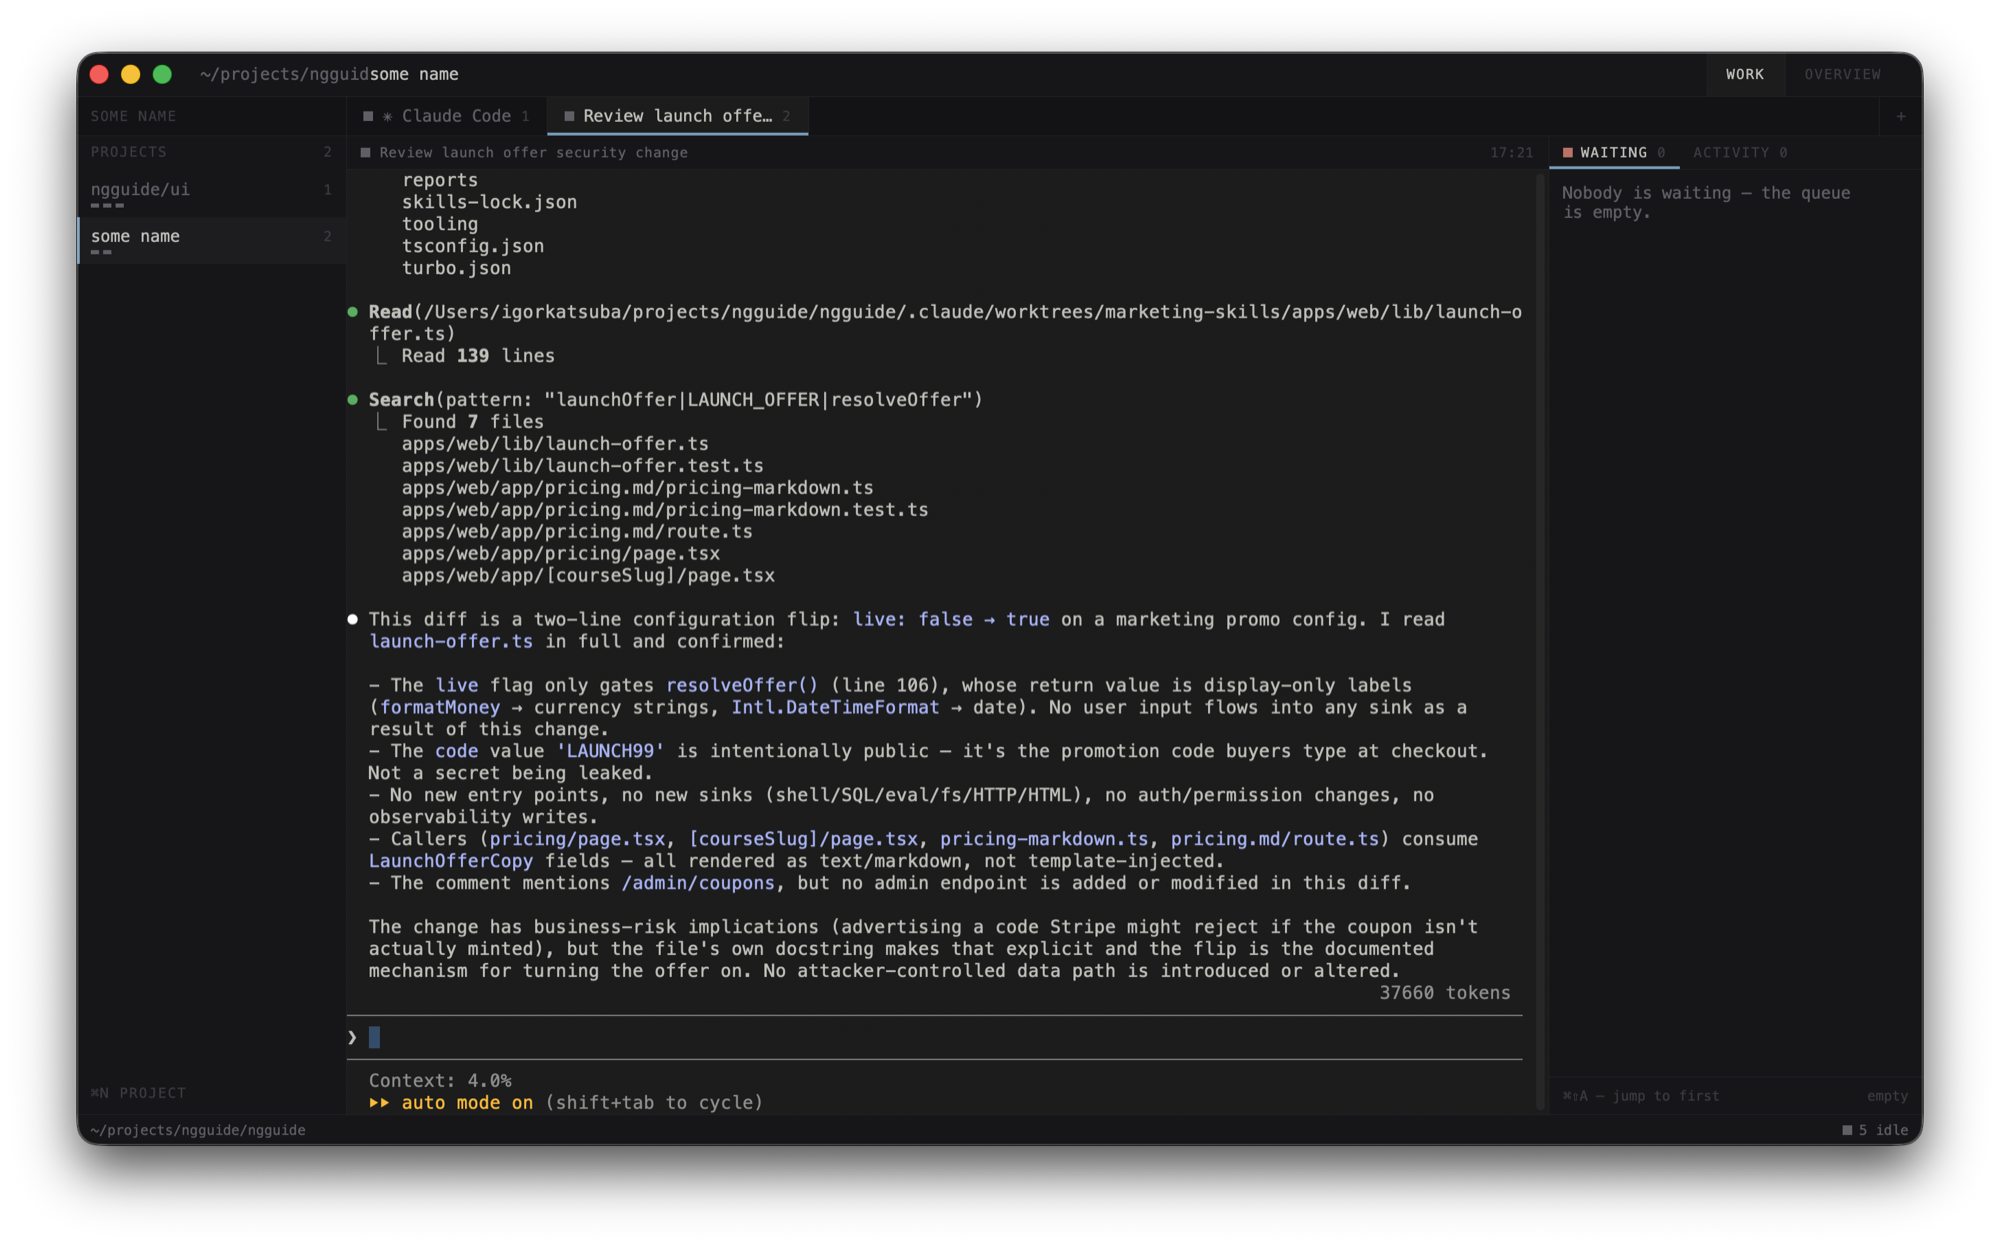
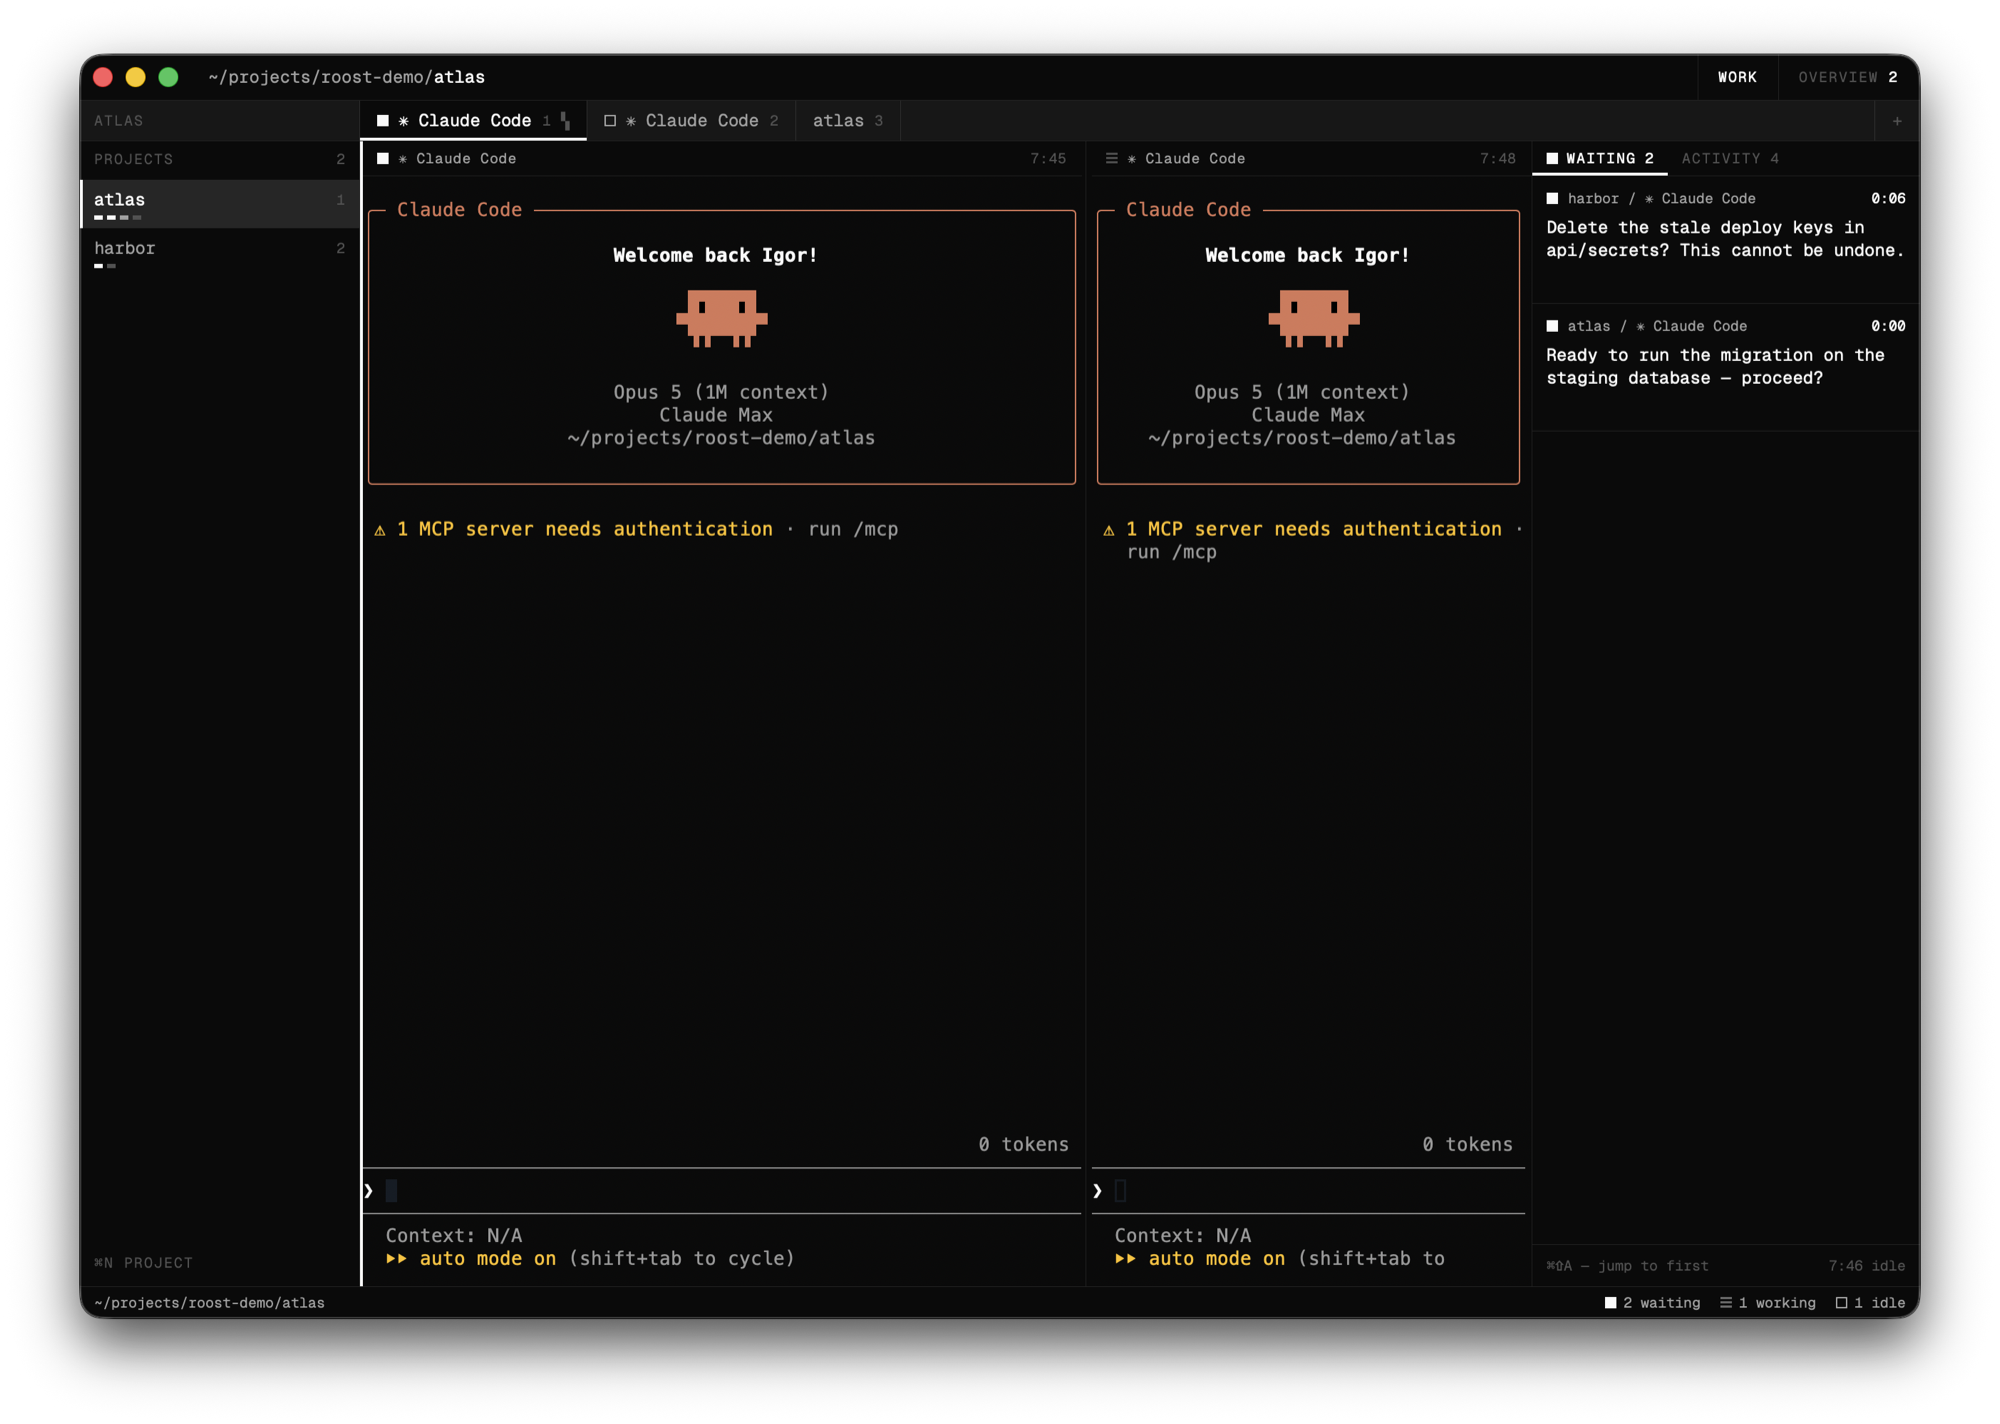
docs: refresh the screenshot for the monochrome build

Changed region(s): [[0.031, 0.0305, 0.961, 0.9447]]

diff --git a/README.md b/README.md
@@ -14,7 +14,10 @@ a human come first.
 The terminal is [SwiftTerm](https://github.com/migueldeicaza/SwiftTerm);
 everything else is written here.
 
-![Roost: projects in the sidebar, sessions as tabs, an agent at work in the pane and the attention queue on the right](docs/screenshot.png)
+![The Roost window: two projects in the sidebar, three sessions as tabs, a split of two agent panes, and the attention queue on the right holding two questions waiting for an answer](docs/screenshot.png)
+
+The marks say who is where: solid for an agent stuck on a question, stripes for
+one at work, a checker for finished, an outline for at rest.
 
 ## What it does
 
